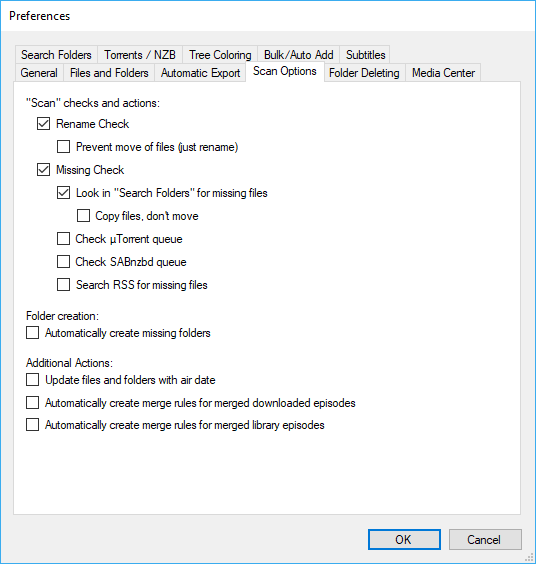
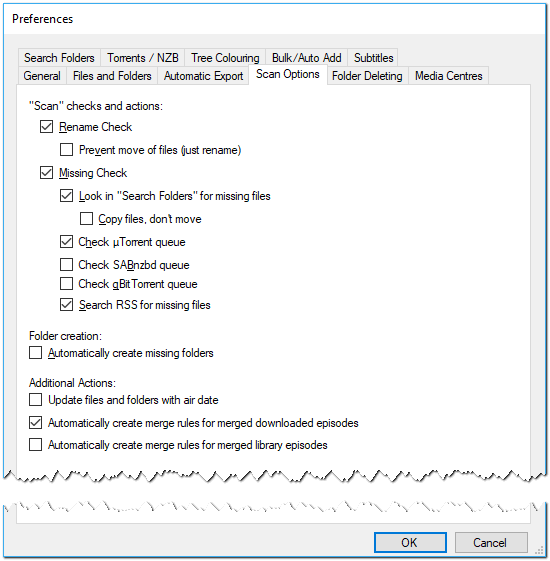
update

diff --git a/_manual/options/preferences-scan-options.md b/_manual/options/preferences-scan-options.md
@@ -16,6 +16,7 @@ The settings in here are more or less self explanatory, however remember that th
 | | Copy files, don't move | _**Un-ticked**_ |
 | | Check µTorrent queue | _**Un-ticked**_ |
 | | Check SABnzdb queue | _**Un-ticked**_ |
+| | Check qBittorrent queue | **Un-ticked** |
 | | Search RSS for missing files | _**Un-ticked**_ |
 | Folder Creation | Automatically create missing folders | _**Un-ticked**_ |
 | Additional Actions | Update files and folders with air date | _**Un-ticked**_ |

diff --git a/_manual/quickstart/index.md b/_manual/quickstart/index.md
@@ -2,7 +2,7 @@
 title: "Quick-Start"
 permalink: /manual/quickstart/
 excerpt: "This guide will help you with the initial setup TV Rename."
-modified: 2018-01-24T15:53:02-04:00
+modified: 2018-08-25T15:53:02-04:00
 sidebar:
   nav: "quickstart"
 redirect_from:
